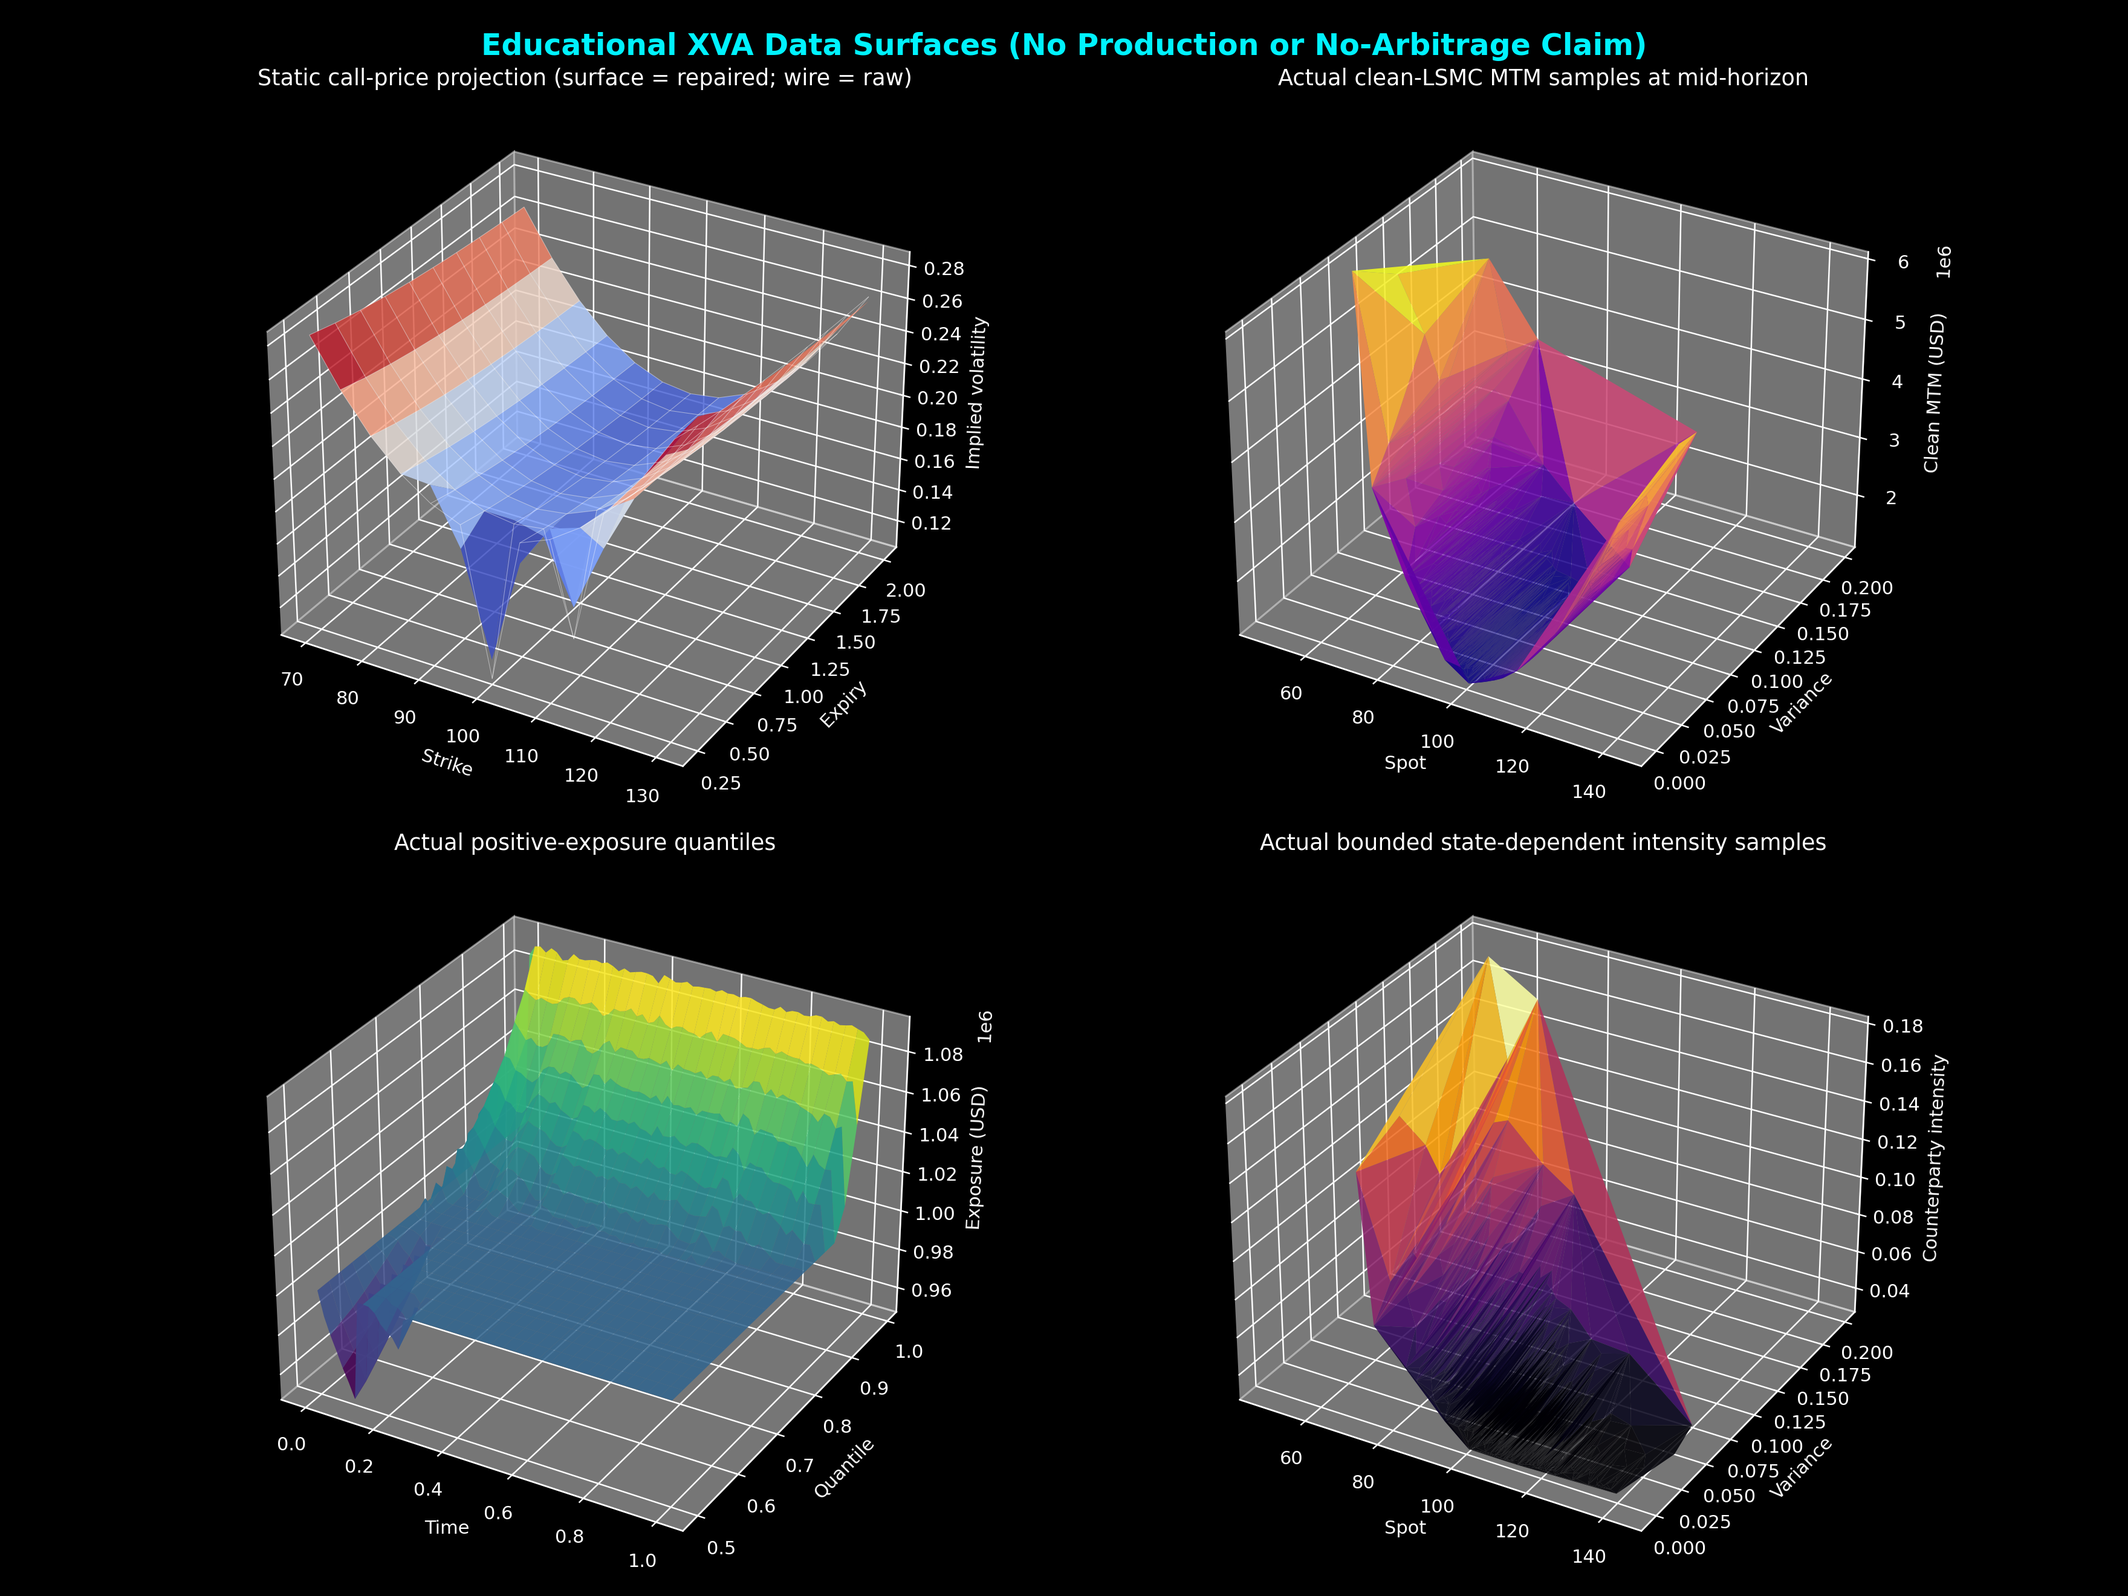
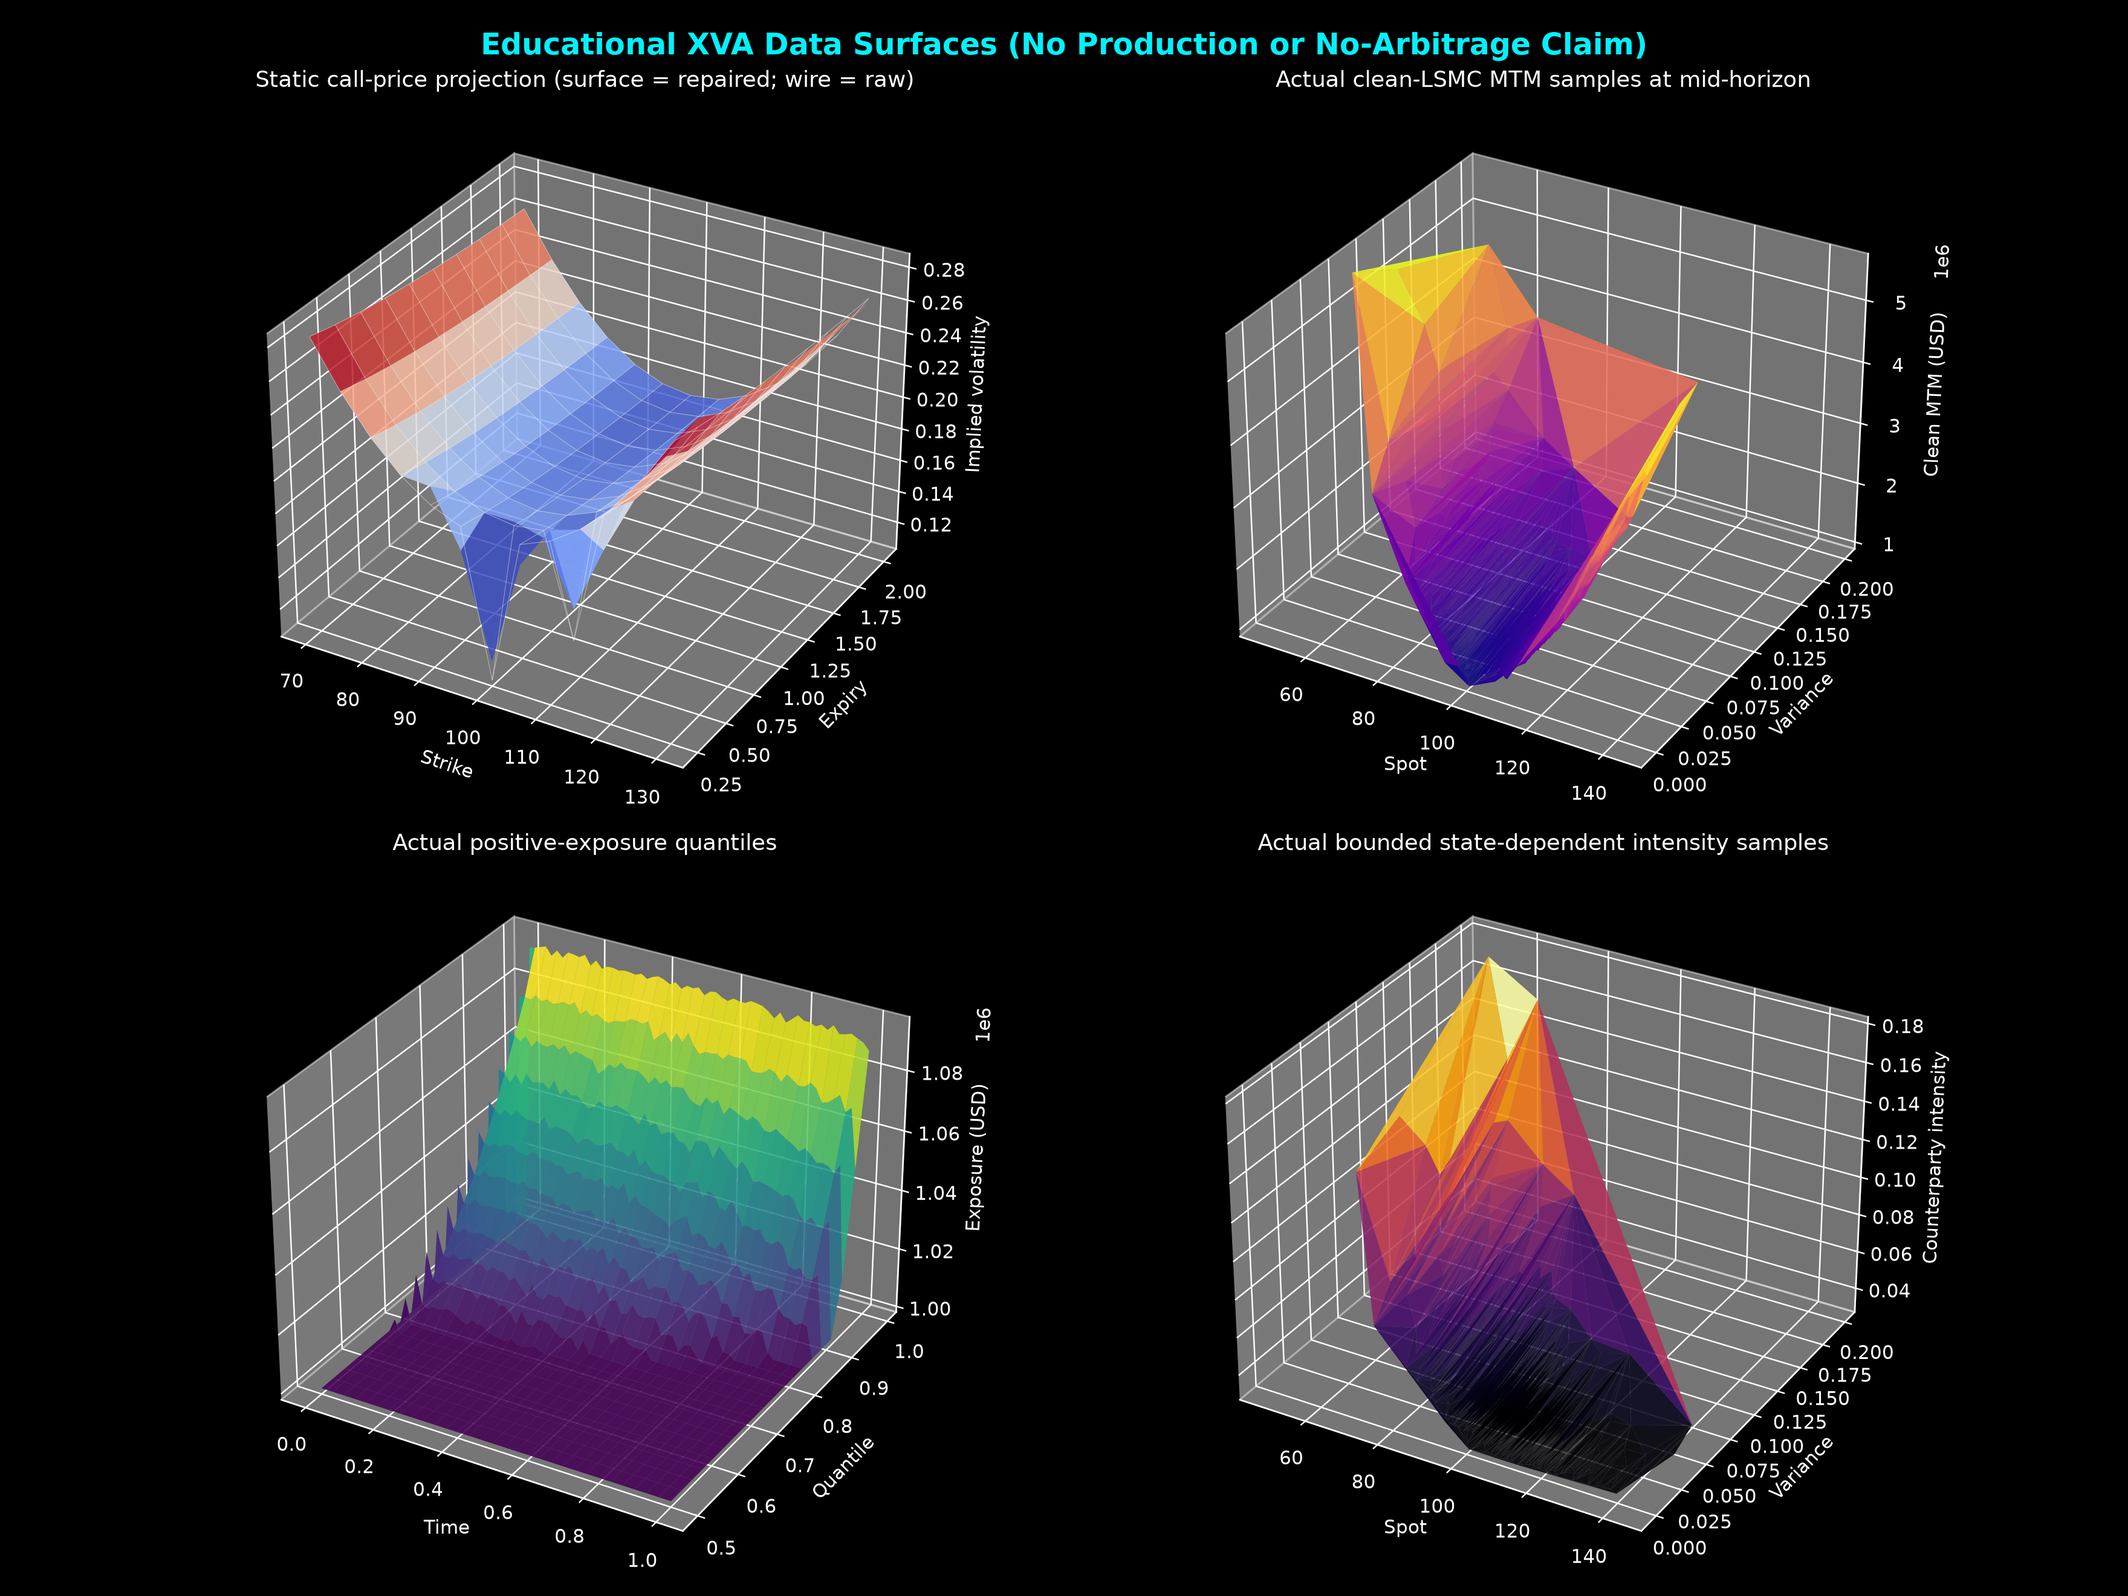
fix: correct spot Greeks, surface Deep-BSDE convergence, enrich LSMC basis
Address quant-review findings in the educational XVA lab:

- compute_greeks now bumps the initial spot and propagates it through the
  simulated paths (S_T scales with S_0), returning dV/dS_0. The previous
  additive terminal-spot shift understated the ATM straddle spot Delta by
  ~47% (17,975 vs the re-simulated 33,699); the corrected estimator matches
  re-simulation to Monte-Carlo noise.
- DeepBSDESolver.solve reports terminal RMSE, a relative RMSE against the
  payoff dispersion, and a convergence flag. run_simulation surfaces these
  and warns when the terminal payoff is largely unhedged, so a near-clean Y0
  is not misread as a converged price.
- LeastSquaresMonteCarloPricer accepts optional state regressors; the driver
  now feeds variance and short rate into the basis so the clean mark-to-market
  depends on the stochastic state rather than on spot alone.
- Retire the vestigial "thermodynamic" naming: rename the diagnostics module
  and image, and drop the deprecated ThermodynamicArbitrageEngine alias.
- Add regression tests for the spot-Greek identity, the state-augmented LSMC
  basis, and the new Deep-BSDE diagnostics.

diff --git a/solvers/deep_bsde_solver.py b/solvers/deep_bsde_solver.py
@@ -211,10 +211,21 @@ class DeepBSDESolver:
                     + torch.sum(z_value * dw_tensor[:, step, :], dim=1)
                 )
             final_loss = torch.mean((full_value - terminal_tensor) ** 2).item()
+            terminal_spread = float(terminal_tensor.std(unbiased=False).item())
+
+        rmse = float(np.sqrt(max(final_loss, 0.0)))
+        # Fraction of the terminal payoff dispersion left unhedged by the Z
+        # networks. A value near one means the experiment has not converged and
+        # Y0 is close to its discounted-mean-payoff initialisation rather than a
+        # learned price; a value near zero means the terminal payoff is matched.
+        relative_rmse = rmse / terminal_spread if terminal_spread > 0.0 else float("nan")
 
         return {
             "Y0": float(y0.detach().cpu().item()),
             "loss": float(final_loss),
+            "rmse": rmse,
+            "relative_rmse": relative_rmse,
+            "converged": bool(relative_rmse < 0.10),
             "device": str(self.device),
         }
 
@@ -230,8 +241,16 @@ class LeastSquaresMonteCarloPricer:
         asset_paths: np.ndarray,
         discount_factors: np.ndarray,
         payoff_fn,
+        state_paths: np.ndarray | None = None,
     ) -> np.ndarray:
-        """Return a clean MTM matrix without CVA or FVA deductions."""
+        """Return a clean MTM matrix without CVA or FVA deductions.
+
+        The conditional-expectation regression uses a quadratic spot basis. When
+        ``state_paths`` is supplied (shape ``(n_paths, n_steps + 1, n_state)``,
+        e.g. variance and short rate), those states enter the basis linearly and
+        as a spot cross term, so the fitted MTM depends on the stochastic state
+        rather than on spot alone.
+        """
         asset_paths = np.asarray(asset_paths, dtype=float)
         discount_factors = np.asarray(discount_factors, dtype=float)
         expected_shape = (self.sim.n_paths, self.sim.n_steps + 1)
@@ -241,6 +260,13 @@ class LeastSquaresMonteCarloPricer:
             raise ValueError("discount_factors[:, 0] must equal one")
 
         n_paths, n_times = asset_paths.shape
+        if state_paths is not None:
+            state_paths = np.asarray(state_paths, dtype=float)
+            if state_paths.ndim != 3 or state_paths.shape[:2] != (n_paths, n_times):
+                raise ValueError(
+                    f"state_paths must have shape ({n_paths}, {n_times}, n_state)"
+                )
+
         values = np.zeros((n_paths, n_times))
         values[:, -1] = payoff_fn(asset_paths[:, -1])
 
@@ -248,7 +274,12 @@ class LeastSquaresMonteCarloPricer:
             spot = asset_paths[:, step]
             step_discount = discount_factors[:, step + 1] / discount_factors[:, step]
             continuation = values[:, step + 1] * step_discount
-            features = np.column_stack([np.ones(n_paths), spot, spot**2])
+            columns = [np.ones(n_paths), spot, spot**2]
+            if state_paths is not None:
+                for state_index in range(state_paths.shape[2]):
+                    state = state_paths[:, step, state_index]
+                    columns.extend([state, spot * state])
+            features = np.column_stack(columns)
             coefficients, _, _, _ = np.linalg.lstsq(features, continuation, rcond=None)
             values[:, step] = features @ coefficients
 

diff --git a/tests/test_engine.py b/tests/test_engine.py
@@ -10,7 +10,7 @@ import torch
 from config import BSDENetworkConfig, CreditConfig, MarketConfig, SimulationConfig
 from models.stochastic_processes import MultiFactorStochasticEngine
 from solvers.deep_bsde_solver import DeepBSDESolver, LeastSquaresMonteCarloPricer
-from solvers.thermodynamic_arbitrage import MarketDiagnostics, StaticArbitrageSurfaceRepair
+from solvers.surface_repair import MarketDiagnostics, StaticArbitrageSurfaceRepair
 from xva.engine import ComprehensiveXVAEngine
 
 
@@ -147,6 +147,35 @@ class TestEducationalXVALab(unittest.TestCase):
         self.assertTrue(np.allclose(values[:, -1], payoff(self.paths["S"][:, -1])))
         self.assertTrue(np.all(np.isfinite(values)))
 
+    def test_spot_greeks_are_initial_spot_sensitivities(self) -> None:
+        engine = ComprehensiveXVAEngine(self.sim, self.credit)
+        linear_payoff = lambda spot: 2.5 * spot
+        greeks = engine.compute_greeks(
+            self.paths["S"],
+            linear_payoff,
+            self.paths["discount_factors"],
+            h=1.0,
+        )
+        initial_spot = self.paths["S"][0, 0]
+        # A linear claim has Delta = V / S0 and zero Gamma under an initial-spot
+        # bump; an additive terminal-spot bump would not satisfy this identity.
+        self.assertAlmostEqual(greeks["Delta"], greeks["Value"] / initial_spot, places=6)
+        self.assertAlmostEqual(greeks["Gamma"], 0.0, places=6)
+
+    def test_lsmc_state_augmented_basis_changes_fit(self) -> None:
+        payoff = lambda spot: np.maximum(spot - 100.0, 0.0)
+        pricer = LeastSquaresMonteCarloPricer(self.sim)
+        spot_only = pricer.solve(self.paths["S"], self.paths["discount_factors"], payoff)
+        state = np.stack([self.paths["V"], self.paths["r"]], axis=-1)
+        augmented = pricer.solve(
+            self.paths["S"],
+            self.paths["discount_factors"],
+            payoff,
+            state_paths=state,
+        )
+        self.assertTrue(np.allclose(augmented[:, -1], payoff(self.paths["S"][:, -1])))
+        self.assertFalse(np.allclose(spot_only, augmented))
+
     def test_market_diagnostic_is_finite_and_descriptive(self) -> None:
         diagnostic = MarketDiagnostics.compute_excess_return_dispersion(
             self.paths["S"],
@@ -215,6 +244,9 @@ class TestEducationalXVALab(unittest.TestCase):
         )
         self.assertTrue(np.isfinite(result["Y0"]))
         self.assertTrue(np.isfinite(result["loss"]))
+        self.assertTrue(np.isfinite(result["rmse"]))
+        self.assertGreaterEqual(result["relative_rmse"], 0.0)
+        self.assertIsInstance(result["converged"], bool)
 
 
 if __name__ == "__main__":

diff --git a/run_simulation.py b/run_simulation.py
@@ -16,7 +16,7 @@ from matplotlib import cm
 from config import BSDENetworkConfig, CreditConfig, MarketConfig, SimulationConfig
 from models.stochastic_processes import MultiFactorStochasticEngine
 from solvers.deep_bsde_solver import DeepBSDESolver, LeastSquaresMonteCarloPricer
-from solvers.thermodynamic_arbitrage import MarketDiagnostics, StaticArbitrageSurfaceRepair
+from solvers.surface_repair import MarketDiagnostics, StaticArbitrageSurfaceRepair
 from xva.engine import ComprehensiveXVAEngine
 
 
@@ -49,7 +49,13 @@ def main() -> None:
 
     print("\n[2/5] Pricing a clean teaching portfolio and computing collateral...")
     clean_pricer = LeastSquaresMonteCarloPricer(sim_cfg)
-    clean_mtm = clean_pricer.solve(paths["S"], paths["discount_factors"], straddle_payoff)
+    state_paths = np.stack([paths["V"], paths["r"]], axis=-1)
+    clean_mtm = clean_pricer.solve(
+        paths["S"],
+        paths["discount_factors"],
+        straddle_payoff,
+        state_paths=state_paths,
+    )
     xva_engine = ComprehensiveXVAEngine(sim_cfg, credit_cfg)
     exposure_profiles = xva_engine.compute_exposure_profiles(clean_mtm)
     xva_results = xva_engine.calculate_xva_metrics(
@@ -100,8 +106,14 @@ def main() -> None:
         )
         print(
             f"      Experimental Deep-BSDE Y0: USD {deep_result['Y0']:,.2f}; "
-            f"terminal loss: {deep_result['loss']:.4f}."
+            f"terminal RMSE: USD {deep_result['rmse']:,.2f} "
+            f"({deep_result['relative_rmse']:.1%} of payoff dispersion)."
         )
+        if not deep_result["converged"]:
+            print(
+                "      Warning: terminal payoff is largely unhedged, so Y0 is close "
+                "to its discounted-mean-payoff start, not a converged price."
+            )
     else:
         print("\n      Deep-BSDE experiment skipped. Set RUN_DEEP_BSDE=1 to run it.")
 
@@ -158,7 +170,7 @@ def main() -> None:
     axes[1, 1].grid(alpha=0.2)
 
     figure.tight_layout()
-    figure.savefig(output_dir / "xva_thermodynamic_diagnostics.png", dpi=220)
+    figure.savefig(output_dir / "xva_diagnostics.png", dpi=220)
     plt.close(figure)
 
     print("\n[5/5] Creating 3D diagnostics from actual simulated or repaired data...")

diff --git a/xva/engine.py b/xva/engine.py
@@ -280,7 +280,16 @@ class ComprehensiveXVAEngine:
         discount_factors: np.ndarray,
         h: float = 1.0,
     ) -> dict[str, float]:
-        """Calculate discounted bump-and-revalue Delta and Gamma."""
+        """Calculate discounted bump-and-revalue spot Delta and Gamma.
+
+        The bump is applied to the initial spot and propagated to the terminal
+        spot by the homogeneity of the simulated dynamics: log-Euler paths
+        scale S_T linearly with S_0, so bumping S_0 by h with the Brownian
+        increments held fixed multiplies each terminal spot by (S_0 +/- h)/S_0.
+        This yields dV/dS_0. An additive shift of the terminal spot instead
+        measures sensitivity to a parallel move of the terminal distribution,
+        which materially understates the spot Delta of a convex payoff.
+        """
         if h <= 0.0:
             raise ValueError("h must be positive")
         asset_paths = self._validate_time_matrix(asset_paths, "asset_paths")
@@ -288,11 +297,19 @@ class ComprehensiveXVAEngine:
         if asset_paths.shape != discount_factors.shape:
             raise ValueError("asset_paths and discount_factors must have the same shape")
 
+        initial_spot = asset_paths[:, 0]
+        if np.any(initial_spot <= 0.0):
+            raise ValueError("initial spot must be strictly positive")
+        if h >= float(np.min(initial_spot)):
+            raise ValueError("h must be smaller than the initial spot")
+
         terminal_spot = asset_paths[:, -1]
         terminal_df = discount_factors[:, -1]
+        scale_up = (initial_spot + h) / initial_spot
+        scale_down = (initial_spot - h) / initial_spot
         base_value = float(np.mean(terminal_df * payoff_fn(terminal_spot)))
-        value_up = float(np.mean(terminal_df * payoff_fn(terminal_spot + h)))
-        value_down = float(np.mean(terminal_df * payoff_fn(terminal_spot - h)))
+        value_up = float(np.mean(terminal_df * payoff_fn(terminal_spot * scale_up)))
+        value_down = float(np.mean(terminal_df * payoff_fn(terminal_spot * scale_down)))
 
         return {
             "Value": base_value,

diff --git a/solvers/surface_repair.py b/solvers/surface_repair.py
@@ -257,7 +257,3 @@ class StaticArbitrageSurfaceRepair:
     ) -> np.ndarray:
         """Compatibility wrapper returning only repaired implied volatilities."""
         return self.repair(strikes, expiries, raw_implied_vol).repaired_implied_vol
-
-
-class ThermodynamicArbitrageEngine(MarketDiagnostics):
-    """Deprecated compatibility name for descriptive diagnostics only."""

diff --git a/README.md b/README.md
@@ -13,7 +13,7 @@ The tracked charts below are produced by run_simulation.py from simulated
 paths and static call-price repair. They are illustrative teaching outputs,
 not calibration, validation, or a no-arbitrage certificate.
 
-![Pathwise XVA diagnostics](xva_thermodynamic_diagnostics.png)
+![Pathwise XVA diagnostics](xva_diagnostics.png)
 
 ![Data-backed XVA surfaces](xva_3d_surfaces.png)
 
@@ -27,8 +27,12 @@ not calibration, validation, or a no-arbitrage certificate.
   intensities remain coupled on each Monte-Carlo path.
 - Variation-margin threshold, minimum-transfer amount, call frequency, and
   margin-period-of-risk close-out exposure.
-- A clean-price LSMC benchmark. It deliberately does not subtract XVA, so
-  adjustments are not charged twice.
+- A clean-price LSMC benchmark whose conditional-expectation regression can be
+  augmented with the simulated variance and short-rate states, so the fitted
+  mark-to-market depends on the stochastic state rather than on spot alone. It
+  deliberately does not subtract XVA, so adjustments are not charged twice.
+- Discounted spot Delta and Gamma from an initial-spot bump propagated through
+  the simulated paths, rather than an additive shift of the terminal spot.
 - Simplified funding-cost adjustment plus explicitly labelled IM and capital
   proxies for MVA and KVA.
 - An optional Deep-BSDE teaching experiment that consumes the actual simulated
@@ -56,8 +60,7 @@ not calibration, validation, or a no-arbitrage certificate.
     models/stochastic_processes.py    Joint factor paths and actual dW increments
     xva/engine.py                     Collateral, MPOR, pathwise XVA, Greeks
     solvers/deep_bsde_solver.py       Clean LSMC and optional Deep-BSDE experiment
-    solvers/thermodynamic_arbitrage.py
-                                      Descriptive diagnostics and static repair
+    solvers/surface_repair.py         Descriptive diagnostics and static repair
     run_simulation.py                 Data-backed 2D and 3D charts
     tests/test_engine.py              Numerical and behavioural tests
 
